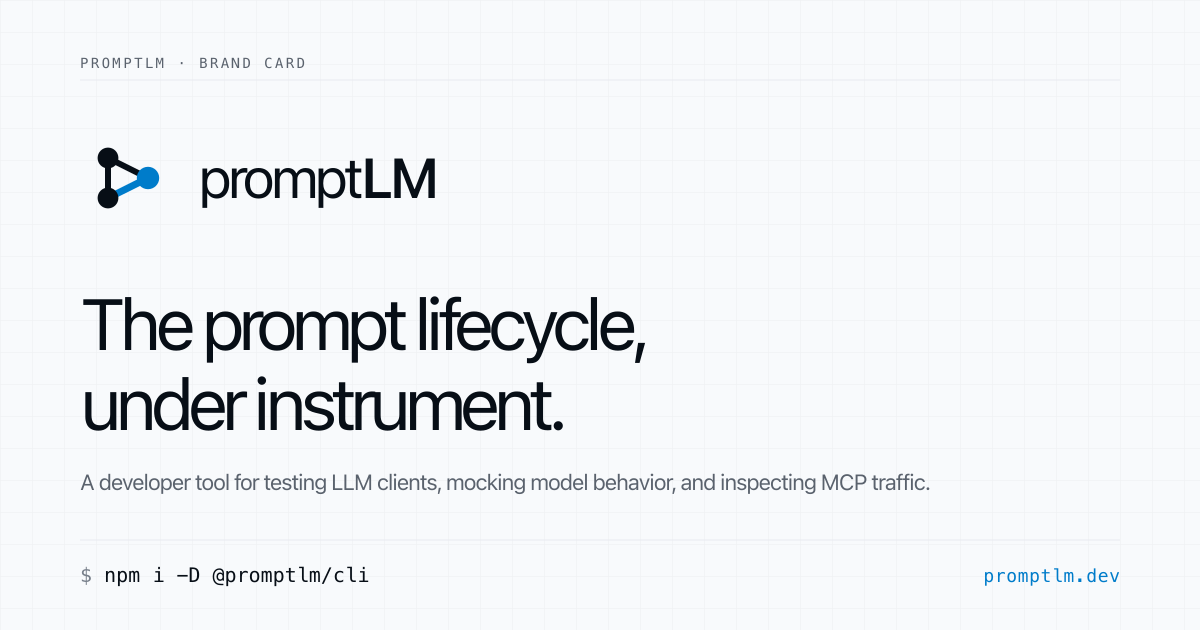
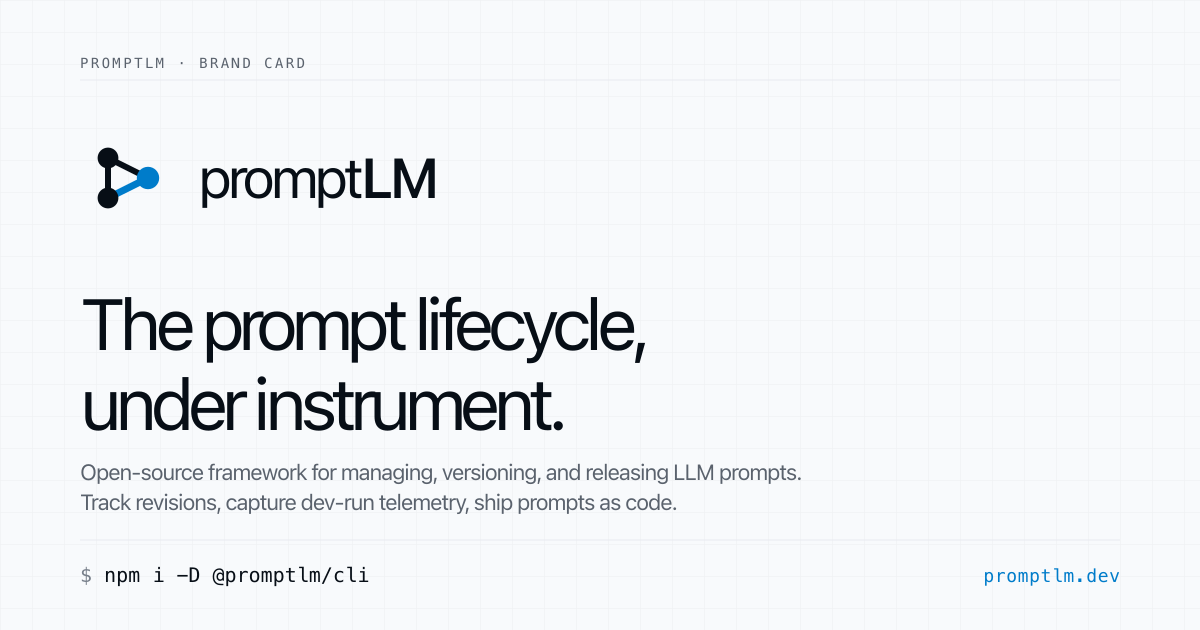
Webapp meta review — shipped-reality copy + SoftwareApplication JSON-LD (#131) (#133)
* feat(webui): align webapp meta with shipped reality + add SoftwareApplication JSON-LD (#131)

Closes the first-pass review pass filed during #111 BS-6. The
webapp's index.html now reflects what the live shell actually ships
(per README.adoc and AppShellLayout's primary nav: Dashboard, Prompts,
Projects) instead of the marketing canvas's aspirational MCP /
mocking / inspection copy. The aspirational positioning stays scoped
to the marketing surface (site/), which is out of scope for #131 per
the issue's own footnote.

Description copy:
  before: "promptLM is a developer tool for testing LLM clients,
           mocking model behavior, and inspecting MCP traffic.
           Run, replay, regress."  (130 chars, aspirational)
  after:  "promptLM is an open-source framework for managing,
           versioning, and releasing LLM prompts. Track revisions,
           capture dev-run telemetry, ship prompts as code."  (155 chars,
           shipped)

Other meta updates:
  - og:title / twitter:title -> "promptLM — the prompt lifecycle,
    under instrument."  (tagline form for stronger social previews;
    <title> stays terse "promptLM" for the browser tab).
  - og:site_name added (was missing — improves unfurl quality).
  - og:description / twitter:description trimmed to drop the brand
    name (already carried by og:title).

Structured data:
  - New <script type="application/ld+json"> SoftwareApplication block
    surfaces the product to search engines and AI answer engines.
[…]

Pull request: Webapp meta review — shipped-reality copy + SoftwareApplication JSON-LD (#131)
## Summary

- Closes #131 (filed during #111 BS-6 to revisit the first-pass meta values once marketing copy stabilised).
- Realigns the webapp's `<meta name="description">` from the brand canvas's aspirational positioning (MCP testing / model mocking / traffic inspection) to what the live shell actually ships today: prompts-as-code, revision history, dev-run telemetry. Source: `README.adoc` + `AppShellLayout` primary nav (`Dashboard`, `Prompts`, `Projects`; `MCP`, `Mocks`, `Evals`, `Runs`, `Docs`, `Settings` still `disabled: true`).
- Switches `og:title` / `twitter:title` to the tagline form `"promptLM — the prompt lifecycle, under instrument."` for stronger social previews. `<title>` stays terse `"promptLM"` for the browser tab.
- Adds a `SoftwareApplication` JSON-LD block to surface the product to search engines and AI answer engines.
- Retires `design/handoff/brand/uploads/pasted-1778012083606-0.png` — the 3420×1246 dashboard screenshot was using the **old** bracket+circle logo (replaced in #111 BS-4) and never met OG aspect requirements. #131 explicitly called this out for retirement.

## Description copy

| | Before (`#111` BS-6 first pass) | After |
|---|---|---|
| Length | 130 chars | 155 chars |
| Reflects | brand canvas aspirational positioning | shipped reality, sourced from `README.adoc` |
[…]

Changed region(s): [[0.0617, 0.7238, 0.7708, 0.8143]]

diff --git a/components/promptlm-web-ui/index.html b/components/promptlm-web-ui/index.html
@@ -6,15 +6,28 @@
     <meta name="theme-color" content="#070e16" />
 
     <!--
-      First-pass brand metadata. The hero copy here is lifted from the
-      marketing canvas (design/handoff/brand/site.jsx) and should be
-      reviewed once the marketing site copy is locked. Follow-up
-      tracking: #131 (filed alongside #111 BS-6).
+      Brand metadata. Description copy reflects what the app actually
+      ships today (per README.adoc + AppShellLayout primary nav: Dashboard,
+      Prompts, Projects). The aspirational MCP / mocking / inspection
+      copy from the brand canvas hero stays scoped to the marketing
+      surface (site/) until those capabilities ship in the live shell.
+      og:title carries the tagline form for stronger social previews;
+      <title> stays terse for the browser tab.
+
+      JSON-LD SoftwareApplication block exposes the product to search
+      engines and AI assistants. Keep in sync with the README and the
+      meta description above.
+
+      Domain (https://promptlm.dev/), Twitter handle (@promptlm),
+      author (promptLM), and theme-color (pl-ink-900 #070e16) confirmed
+      during #131 review.
+
+      First-pass-then-locked history: #111 BS-6 (efc5518) -> #131.
     -->
     <title>promptLM</title>
     <meta
       name="description"
-      content="promptLM is a developer tool for testing LLM clients, mocking model behavior, and inspecting MCP traffic. Run, replay, regress."
+      content="promptLM is an open-source framework for managing, versioning, and releasing LLM prompts. Track revisions, capture dev-run telemetry, ship prompts as code."
     />
     <meta name="author" content="promptLM" />
 
@@ -25,12 +38,13 @@
     <link rel="apple-touch-icon" sizes="180x180" href="/apple-touch-icon.png" />
 
     <!-- Open Graph -->
-    <meta property="og:title" content="promptLM" />
+    <meta property="og:title" content="promptLM — the prompt lifecycle, under instrument." />
     <meta
       property="og:description"
-      content="promptLM is a developer tool for testing LLM clients, mocking model behavior, and inspecting MCP traffic. Run, replay, regress."
+      content="Open-source framework for managing, versioning, and releasing LLM prompts. Track revisions, capture dev-run telemetry, ship prompts as code."
     />
     <meta property="og:type" content="website" />
+    <meta property="og:site_name" content="promptLM" />
     <meta property="og:url" content="https://promptlm.dev/" />
     <meta property="og:image" content="https://promptlm.dev/og-image.png" />
     <meta property="og:image:width" content="1200" />
@@ -40,13 +54,46 @@
     <!-- Twitter / X -->
     <meta name="twitter:card" content="summary_large_image" />
     <meta name="twitter:site" content="@promptlm" />
-    <meta name="twitter:title" content="promptLM" />
+    <meta name="twitter:title" content="promptLM — the prompt lifecycle, under instrument." />
     <meta
       name="twitter:description"
-      content="promptLM is a developer tool for testing LLM clients, mocking model behavior, and inspecting MCP traffic. Run, replay, regress."
+      content="Open-source framework for managing, versioning, and releasing LLM prompts. Track revisions, capture dev-run telemetry, ship prompts as code."
     />
     <meta name="twitter:image" content="https://promptlm.dev/og-image.png" />
     <meta name="twitter:image:alt" content="promptLM — the prompt lifecycle, under instrument." />
+
+    <!-- Structured data: SoftwareApplication. Surfaces the product to
+         search engines and AI answer engines. -->
+    <script type="application/ld+json">
+      {
+        "@context": "https://schema.org",
+        "@type": "SoftwareApplication",
+        "name": "promptLM",
+        "alternateName": "promptLM — the prompt lifecycle, under instrument.",
+        "description": "Open-source framework for managing, versioning, and releasing LLM prompts. Track revisions, capture dev-run telemetry, ship prompts as code.",
+        "url": "https://promptlm.dev/",
+        "image": "https://promptlm.dev/og-image.png",
+        "applicationCategory": "DeveloperApplication",
+        "operatingSystem": "Cross-platform",
+        "license": "https://www.apache.org/licenses/LICENSE-2.0",
+        "isAccessibleForFree": true,
+        "offers": {
+          "@type": "Offer",
+          "price": "0",
+          "priceCurrency": "USD"
+        },
+        "publisher": {
+          "@type": "Organization",
+          "name": "promptLM",
+          "url": "https://promptlm.dev/",
+          "logo": "https://promptlm.dev/favicon-512.png"
+        },
+        "sameAs": [
+          "https://github.com/promptLM/promptlm-app",
+          "https://twitter.com/promptlm"
+        ]
+      }
+    </script>
   </head>
 
   <body>